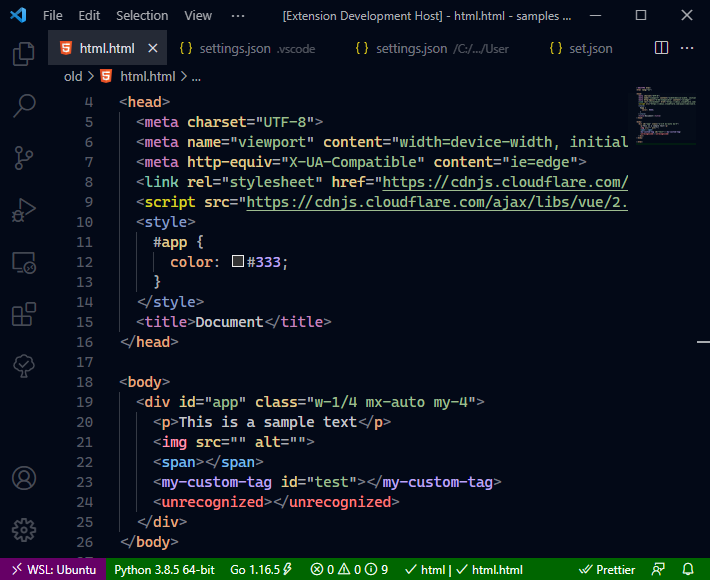
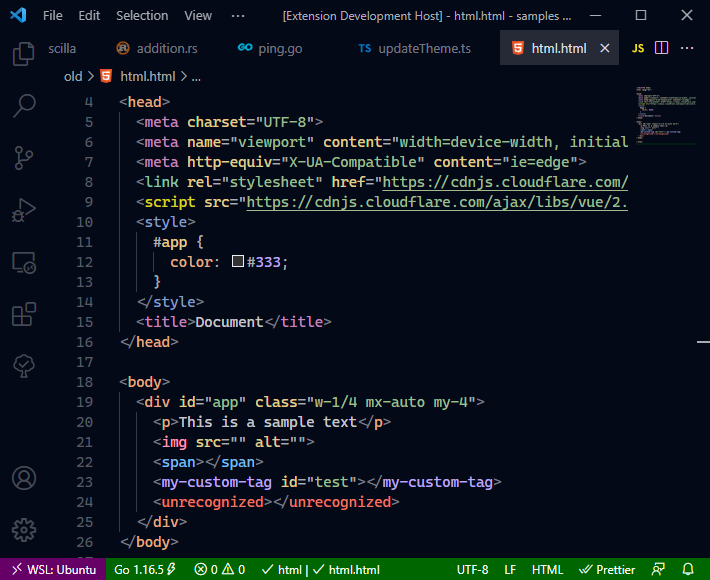
more red adjustment

Changed region(s): [[0.4958, 0.031, 0.9296, 0.1241], [0.062, 0.031, 0.4338, 0.1241], [0.1549, 0.9621, 0.8056, 0.9931]]

diff --git a/dist/common/colors.js b/dist/common/colors.js
@@ -55,7 +55,7 @@ export class TokenColorPalette extends BaseColorPalette {
         this.Color01 = new Color(__classPrivateFieldGet(this, _TokenColorPalette_instances, "m", _TokenColorPalette_setColorCode).call(this, "#7dbbe8", "#a3c4dc"), "Default library function, HTML inline tag");
         this.Color02 = new Color(__classPrivateFieldGet(this, _TokenColorPalette_instances, "m", _TokenColorPalette_setColorCode).call(this, "#e0cd94", "#e3d7b5"), "Function call, Attribute name");
         this.Color03 = new Color(__classPrivateFieldGet(this, _TokenColorPalette_instances, "m", _TokenColorPalette_setColorCode).call(this, mix("c5"), mix("c5")), "Foreground, Variable");
-        this.Color04 = new Color(__classPrivateFieldGet(this, _TokenColorPalette_instances, "m", _TokenColorPalette_setColorCode).call(this, "#fc7e7e", "#dd8888"), "Constant, HTML unrecognized tag");
+        this.Color04 = new Color(__classPrivateFieldGet(this, _TokenColorPalette_instances, "m", _TokenColorPalette_setColorCode).call(this, "#ef7762", "#d88374"), "Constant, HTML unrecognized tag");
         this.Color05 = new Color(__classPrivateFieldGet(this, _TokenColorPalette_instances, "m", _TokenColorPalette_setColorCode).call(this, "#c3ab85", "#d9c9af"), "Miscellaneous");
         this.Color06 = new Color(__classPrivateFieldGet(this, _TokenColorPalette_instances, "m", _TokenColorPalette_setColorCode).call(this, "#0bc2cb", "#a3d9dc"), "Type");
         this.Color07 = new Color(__classPrivateFieldGet(this, _TokenColorPalette_instances, "m", _TokenColorPalette_setColorCode).call(this, mix("e5"), mix("e5")), "Parameter, Argument");

diff --git a/src/common/colors.ts b/src/common/colors.ts
@@ -50,7 +50,7 @@ export class TokenColorPalette extends BaseColorPalette {
   Color01 = new Color(this.#setColorCode("#7dbbe8", "#a3c4dc"), "Default library function, HTML inline tag");
   Color02 = new Color(this.#setColorCode("#e0cd94", "#e3d7b5"), "Function call, Attribute name");
   Color03 = new Color(this.#setColorCode(mix("c5"), mix("c5")), "Foreground, Variable");
-  Color04 = new Color(this.#setColorCode("#fc7e7e", "#dd8888"), "Constant, HTML unrecognized tag");
+  Color04 = new Color(this.#setColorCode("#ef7762", "#d88374"), "Constant, HTML unrecognized tag");
   Color05 = new Color(this.#setColorCode("#c3ab85", "#d9c9af"), "Miscellaneous");
   Color06 = new Color(this.#setColorCode("#0bc2cb", "#a3d9dc"), "Type");
   Color07 = new Color(this.#setColorCode(mix("e5"), mix("e5")), "Parameter, Argument");

diff --git a/README.md b/README.md
@@ -21,7 +21,7 @@ A dark theme for Night Coders. It has eight variants with different color palett
 |Default library function, HTML inline tag|![#7dbbe8](https://via.placeholder.com/23/7dbbe8/?text=+)|#7dbbe8|
 |Function call, Attribute name|![#e0cd94](https://via.placeholder.com/23/e0cd94/?text=+)|#e0cd94|
 |Foreground, Variable|![#c6c7ca](https://via.placeholder.com/23/c6c7ca/?text=+)|#c6c7ca|
-|Constant, HTML unrecognized tag|![#fc7e7e](https://via.placeholder.com/23/fc7e7e/?text=+)|#fc7e7e|
+|Constant, HTML unrecognized tag|![#ef7762](https://via.placeholder.com/23/ef7762/?text=+)|#ef7762|
 |Miscellaneous|![#c3ab85](https://via.placeholder.com/23/c3ab85/?text=+)|#c3ab85|
 |Type|![#0bc2cb](https://via.placeholder.com/23/0bc2cb/?text=+)|#0bc2cb|
 |Parameter, Argument|![#e5e6e7](https://via.placeholder.com/23/e5e6e7/?text=+)|#e5e6e7|
@@ -46,7 +46,7 @@ A dark theme for Night Coders. It has eight variants with different color palett
 |Default library function, HTML inline tag|![#a3c4dc](https://via.placeholder.com/23/a3c4dc/?text=+)|#a3c4dc|
 |Function call, Attribute name|![#e3d7b5](https://via.placeholder.com/23/e3d7b5/?text=+)|#e3d7b5|
 |Foreground, Variable|![#c6c7ca](https://via.placeholder.com/23/c6c7ca/?text=+)|#c6c7ca|
-|Constant, HTML unrecognized tag|![#dd8888](https://via.placeholder.com/23/dd8888/?text=+)|#dd8888|
+|Constant, HTML unrecognized tag|![#d88374](https://via.placeholder.com/23/d88374/?text=+)|#d88374|
 |Miscellaneous|![#d9c9af](https://via.placeholder.com/23/d9c9af/?text=+)|#d9c9af|
 |Type|![#a3d9dc](https://via.placeholder.com/23/a3d9dc/?text=+)|#a3d9dc|
 |Parameter, Argument|![#e5e6e7](https://via.placeholder.com/23/e5e6e7/?text=+)|#e5e6e7|
